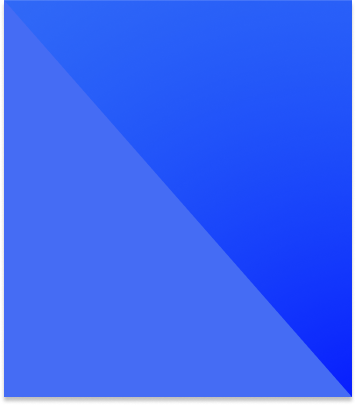
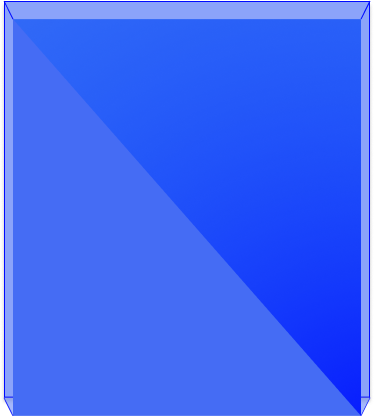
botoes cards

Changed region(s): [[0.0, 0.0, 1.0, 1.0]]

diff --git a/Connect Health/src/Home/Componentes/Blocos.jsx b/Connect Health/src/Home/Componentes/Blocos.jsx
@@ -1,9 +1,23 @@
-import
+import bloco_1 from '../../../assets/bloco_1.png'
+import bloco_2 from '../../../assets/bloco_2.png'
+import bloco_3 from '../../../assets/bloco_3.png'
 
 function Blocos(){
     return(
-        <div>
+        <div className='flex w-full h-auto items-center justify-center gap-20 '>
+            <div className='bg-bloco1 w-[25%] h-80 bg-contain bg-no-repeat flex-col flex'>
+                <h3 className='font-bold text-[20px] text-center text-[#fff] w-[80%] mt-10 '>Psicologia</h3>
+                <p className='text-center w-[65%] m-auto mr-24 text-[15px] text-[#fff] pt-5'>Aqui, sua saúde mental é respeitada.<br/>Nos conte o que está sentindo hoje e amanhã viva como nunca.</p>
+                <button className='bg-[#8269E0] w-[55%] rounded-full p-1 text-[15px] mt-16 mb-20 mr-16 self-center'>Conheça Mais!</button>
+            </div>
 
+            <div className='bg-bloco2 w-[25%] h-80 bg-contain bg-no-repeat'>
+                
+            </div>
+
+            <div className='bg-bloco3 w-[25%] h-80 bg-contain bg-no-repeat'>
+                
+            </div>
         </div>
     )
 }

diff --git a/Connect Health/src/Home/app.jsx b/Connect Health/src/Home/app.jsx
@@ -1,5 +1,6 @@
 import BGHome from "./Componentes/BGHome"
 import Header from "./Componentes/Header"
+import Blocos from "./Componentes/Blocos"
 import Nutrim from './Componentes/Nutrim'
 
 function Home() {
@@ -7,6 +8,7 @@ function Home() {
         <>
             <Header />
             <BGHome/>
+            <Blocos/>
                 
         </>
         

diff --git a/Connect Health/tailwind.config.js b/Connect Health/tailwind.config.js
@@ -18,6 +18,9 @@ export default {
     extend: {
       backgroundImage: {
         "nutriImg": "url('assets/nutricao.png')",
+        "bloco1": "url('assets/bloco_1.png')",
+        "bloco2": "url('assets/bloco_2.png')",
+        "bloco3": "url('assets/bloco_3.png')",
       },
       boxShadow: {
         'nutrici': '0 10px 10px 0 rgba(148, 255, 39, 0.7)',
